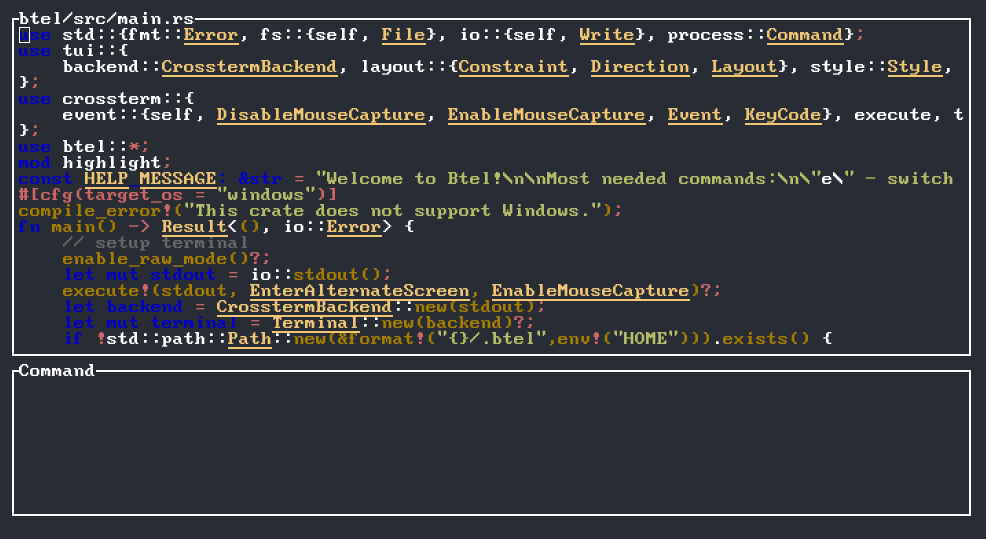
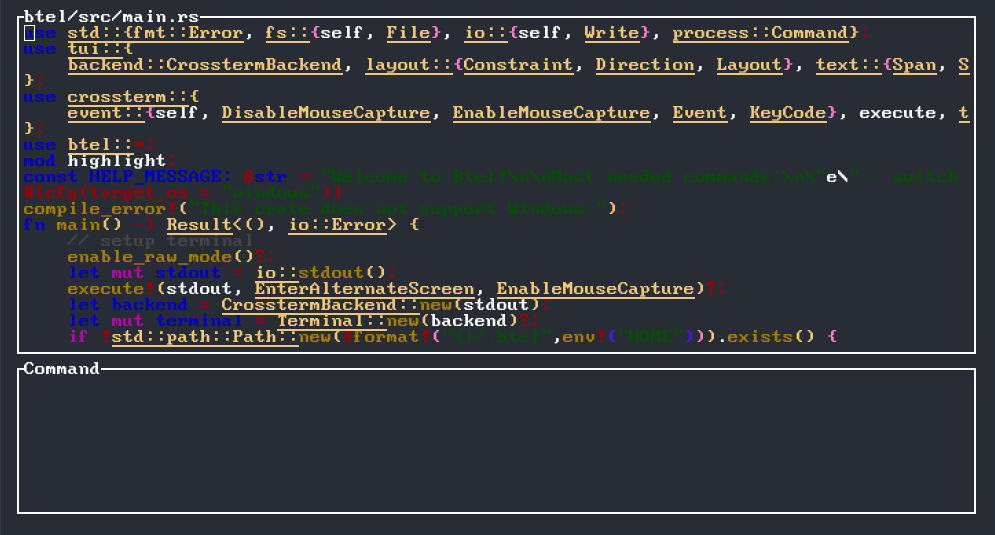
Improved syntax highlighting

Changed region(s): [[0.0, 0.0, 1.0, 0.9869]]

diff --git a/src/highlight.rs b/src/highlight.rs
@@ -5,9 +5,10 @@ const  BRACKET_COLOR: [Color;3] = [Color::Yellow,Color::Rgb(255, 123, 207),Color
 pub fn rust_highlight(text: &String) -> Text<'static> {
     let mut spans: Vec<Span> = text.chars().map(|c|Span::styled(c.to_string(), Style::default())).collect();
     color_brackets(&mut spans,"{","}");
-    color(&mut spans, vec![(Regex::new(r"(fn |pub |let [^=]+|use |impl |mod |static [^=]+|const [^=]+)").unwrap(),Style::default().fg(Color::Rgb(0, 0, 200))),(Regex::new(r"(loop |for |in |while |return |match |mut |if )").unwrap(),Style::default().fg(Color::Rgb(73, 22, 70))),(Regex::new(r"([\w\-_!]+\(|\(|\))").unwrap(),Style::default().fg(Color::Rgb(167, 125, 0))),(Regex::new(r"([^ ]+::|[A-Z][a-z]+)").unwrap(),Style::default().add_modifier(Modifier::UNDERLINED).fg(Color::Yellow))], text);
+    color(&mut spans, vec![(Regex::new(r"(fn |pub |let [^=]+|use |impl |mod |static [^=]+|const [^=]+)").unwrap(),Style::default().fg(Color::Rgb(0, 0, 200))),(Regex::new(r"(loop |for |in |while |return |match |mut |if )").unwrap(),Style::default().fg(Color::Rgb(173, 12, 170))),(Regex::new(r"([\w\-_!]+\(|\(|\))").unwrap(),Style::default().fg(Color::Rgb(167, 125, 0))),(Regex::new(r"([^ ]+::|[A-Z][a-z]+)").unwrap(),Style::default().add_modifier(Modifier::UNDERLINED).fg(Color::Yellow))], text);
     color_brackets(&mut spans, "(", ")");
     color_brackets(&mut spans, "[", "]");
+    color_brackets(&mut spans, "<", ">");
     color(&mut spans, vec![(Regex::new(r"(#(!)*\[[^\]]+\]|!|\?|;|&|(-|\+|\*|/)*=(>|<|=)*| >|< |\+ |\- |\*| / |->)").unwrap(),Style::default().fg(Color::Rgb(156, 1, 10))),(Regex::new(r"\d").unwrap(),Style::default().fg(Color::Rgb(223, 123, 123))),(Regex::new("[a-z]*\"[^\"]*\"").unwrap(),Style::default().fg(Color::Rgb(2, 80, 0))),(Regex::new(r"(//[^\n]+|/\*[^(*/)]+\*/)").unwrap(),Style::default().add_modifier(Modifier::DIM).fg(Color::DarkGray))], text);
     text_from_spans(spans)
 }
@@ -48,8 +49,13 @@ fn color_brackets(spans: &mut Vec<Span>,start: &str,end: &str) {
                 spans[i].style = Style::default().fg(BRACKET_COLOR[((j as usize) - 1) % 3]);
         }
         if spans[i].content == end {
+            if j <= 0 {
+                spans[i].style = Style::default().fg(Color::Rgb(255, 0, 0));
+                j = 0;
+            } else {
                 spans[i].style = Style::default().fg(BRACKET_COLOR[((j as usize) - 1) % 3]);   
-                j -= 1;
+                j -= 1;   
+            }
         }
         i += 1
     }

diff --git a/src/main.rs b/src/main.rs
@@ -1,6 +1,6 @@
 use std::{fmt::Error, fs::{self, File}, io::{self, Write}, process::Command};
 use tui::{
-    backend::CrosstermBackend, layout::{Constraint, Direction, Layout}, style::Style, text::{Span, Spans, Text}, widgets::{Block, Borders, Paragraph}, Frame, Terminal
+    backend::CrosstermBackend, layout::{Constraint, Direction, Layout}, text::{Span, Spans, Text}, widgets::{Block, Borders, Paragraph}, Frame, Terminal
 };
 use crossterm::{
     event::{self, DisableMouseCapture, EnableMouseCapture, Event, KeyCode}, execute, terminal::{disable_raw_mode, enable_raw_mode, EnterAlternateScreen, LeaveAlternateScreen}
@@ -132,7 +132,7 @@ fn render(f:&mut  Frame<'_,CrosstermBackend<io::Stdout>>, app: App,edit_cursor:&
         let on_screen = Text::from(text_spans.lines.drain(*scroll..(*scroll + (chunks[0].height as usize) -1)).as_slice().iter().map(|l|l.clone()).collect::<Vec<Spans>>());
         text_spans = on_screen
     }
-    let command = Paragraph::new(Spans::from(vec![Span::raw(app.command)])).style(Style::default()).block(Block::default().borders(Borders::ALL).title(app.line_name.as_str()));
+    let command = Paragraph::new(Spans::from(vec![Span::raw(app.command)])).block(Block::default().borders(Borders::ALL).title(app.line_name.as_str()));
     if *app.display == Display::Output {
         let output = Paragraph::new(app.output.to_string()).block(Block::default().borders(Borders::ALL).title("Output"));
         f.render_widget(output,chunks[0]);    
